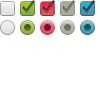
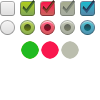
issue #14 y #31

Changed region(s): [[0.21, 0.39, 0.81, 0.6]]

diff --git a/web/css/backend/main.css b/web/css/backend/main.css
@@ -1,3 +1,5 @@
+/* This CSS is autocompiled by LESS parser. Don't edit it manually. */
+
 *:focus {
   outline: 0;
   outline: none;
@@ -406,18 +408,43 @@ table.items_control tbody tr td input[type="radio"].opt-nc:checked { background-
 table.items_control tbody tr td input[type="radio"].opt-error:checked { background-position: -40px -20px; }
 table.items_control tbody tr td input[type="radio"]:hover { cursor: default; }
 table.items_control tbody tr td.item_ok {
-  color: #008800;
   background-color: #eeffee;
+  color: #008800;
+  text-align: center;
+}
+table.items_control tbody tr td.item_ok span {
+  background: #eeffee url('../../images/form.png') no-repeat -20px -40px;
+  display: block;
+  width: 20px;
+  height: 20px;
+  margin: 0 auto;
 }
 table.items_control tbody tr td.item_error {
-  color: #880000;
   background-color: #ffeeee;
+  color: #880000;
+  text-align: center;
 }
-table.items_control tbody tr td.item_nc {
-  color: #444444;
+table.items_control tbody tr td.item_error span {
+  background: #ffeeee url('../../images/form.png') no-repeat -40px -40px;
+  display: block;
+  width: 20px;
+  height: 20px;
+  margin: 0 auto;
+}
+table.items_control tbody tr td.item_sc {
   background-color: #eeeeee;
+  color: #444444;
+  text-align: center;
+}
+table.items_control tbody tr td.item_sc span {
+  background: #eeeeee url('../../images/form.png') no-repeat -60px -40px;
+  display: block;
+  width: 20px;
+  height: 20px;
+  margin: 0 auto;
 }
 table.items_control tbody tr th {
+  white-space: nowrap;
   background-color: #dddddd;
   border-bottom: 1px solid #cccccc;
   border-left: 1px solid #cccccc;

diff --git a/data/stylesheets/backend/main.less b/data/stylesheets/backend/main.less
@@ -173,13 +173,44 @@ table.items_control {
             cursor: default;
           }
         }
+
       }
 
-      td.item_ok     { color: #080; background-color: #efe}
-      td.item_error  { color: #800; background-color: #fee}
-      td.item_nc     { color: #444; background-color: #eee}
-
+      td.item_ok     {
+        background-color: #efe;
+        color: #080;
+        text-align:center;
+        span {
+          background: #efe url('../../images/form.png') no-repeat -20px -40px;
+          display:block;
+          width:20px; height:20px;
+          margin: 0 auto;
+        }
+        }
+      td.item_error {
+        background-color: #fee;
+        color: #800;
+        text-align:center;
+        span { 
+          background: #fee url('../../images/form.png') no-repeat -40px -40px;
+          display:block;
+          width:20px; height:20px;
+          margin: 0 auto;
+        }
+      }
+      td.item_sc     {
+        background-color: #eee;
+        color: #444;
+        text-align:center;
+        span { 
+          background: #eee url('../../images/form.png') no-repeat -60px -40px;
+          display:block;
+          width:20px; height:20px;
+          margin: 0 auto;
+        }
+      }
       th {
+        white-space: nowrap;
         background-color: #ddd;
         border-bottom: 1px solid #ccc;
         border-left: 1px solid #ccc;

diff --git a/apps/backend/modules/revisions/templates/controlSuccess.php b/apps/backend/modules/revisions/templates/controlSuccess.php
@@ -22,7 +22,8 @@ use_stylesheet('backend/items.css');
             <th>M</th>
             <th><?php echo __('Ok') ?></th>
             <th><?php echo __('Er') ?></th>
-            <th><?php echo __('nc') ?></th>
+            <th><?php echo __('n/c') ?></th>
+            <th><?php echo __('s/c') ?></th>
           </tr>
         </thead>
 
@@ -31,7 +32,8 @@ use_stylesheet('backend/items.css');
             <th colspan="4">
               | <span class="ok"> ok: <?php echo ($revision->getItemsGroupOK($group[0]->getItem()->getGroupId()) ? $revision->getItemsGroupOK($group[0]->getItem()->getGroupId())->count : 0) ?></span>
               | <span class="error">error: <?php echo ($revision->getItemsGroupError($group[0]->getItem()->getGroupId()) ? $revision->getItemsGroupError($group[0]->getItem()->getGroupId())->count : 0) ?></span>
-              | <span class="nc">s/c: <?php echo ($revision->getItemsGroupSC($group[0]->getItem()->getGroupId()) ? $revision->getItemsGroupSC($group[0]->getItem()->getGroupId())->count : 0) ?></span>
+              | <span class="no-corresponde">no corresponde: <?php echo ($revision->getItemsGroupNC($group[0]->getItem()->getGroupId()) ? $revision->getItemsGroupNC($group[0]->getItem()->getGroupId())->count : 0) ?></span>
+              | <span class="sin-controlar">sin controlar: <?php echo ($revision->getItemsGroupSC($group[0]->getItem()->getGroupId()) ? $revision->getItemsGroupSC($group[0]->getItem()->getGroupId())->count : 0) ?></span>
               | total: <?php echo $group->count() ?> |</th>
           </tr>
         </tfoot>
@@ -50,10 +52,12 @@ use_stylesheet('backend/items.css');
             <td><input <?php if($revision->getBlock()) echo 'disabled' ?> <?php if($state == 'ok') echo 'checked' ?> class="opt-ok" type="radio" name="items[<?php echo $item->get('id') ?>]" value="ok" /></td>
             <td><input <?php if($revision->getBlock()) echo 'disabled' ?> <?php if($state == 'error') echo 'checked' ?> class="opt-error" type="radio" name="items[<?php echo $item->get('id') ?>]" value="error"/></td>
             <td><input <?php if($revision->getBlock()) echo 'disabled' ?> <?php if($state == 'nc') echo 'checked' ?> class="opt-nc" type="radio" name="items[<?php echo $item->get('id') ?>]" value="nc"/></td>
+            <td><input <?php if($revision->getBlock()) echo 'disabled' ?> <?php if($state == 'sc') echo 'checked' ?> class="opt-sc" type="radio" name="items[<?php echo $item->get('id') ?>]" value="sc"/></td>
                 <?php else: ?>
             <td><?php if($state == 'ok') echo '*' ?></td>
             <td><?php if($state == 'error') echo '*' ?></td>
             <td><?php if($state == 'nc') echo '*' ?></td>
+            <td><?php if($state == 'sc') echo '*' ?></td>
                 <?php endif; ?>
           </tr>
             <?php endforeach; ?>

diff --git a/lib/model/doctrine/Revision.class.php b/lib/model/doctrine/Revision.class.php
@@ -165,7 +165,7 @@ class Revision extends BaseRevision {
     return $request;
   }
 
-  public function getItemsGroupSC($group_id) {
+  public function getItemsGroupNC($group_id) {
     $q = Doctrine_Query::create()
             ->select('Count(ri.id) as count, *')
             ->from('RevisionItem ri')
@@ -180,37 +180,61 @@ class Revision extends BaseRevision {
     return $request;
   }
 
-  public function getGroupState($group_id) {
+  public function getItemsGroupSC($group_id) {
     $q = Doctrine_Query::create()
-            ->select('Count(ri.id) as count, ri.state')
+            ->select('Count(ri.id) as count, *')
             ->from('RevisionItem ri')
             ->leftJoin('ri.Item i')
             ->where('ri.revision_id = ?', $this->get('id'))
+            ->andWhere('ri.state = ?', 'sc')
             ->andWhere('i.group_id = ?', $group_id)
             ->groupBy('ri.state');
 
-    $request = $q->execute();
+    $request = $q->fetchOne();
 
-    $state_error = false;
-    $state_nc = false;
-    $state_ok = false;
+    return $request;
+  }
 
-    foreach ($request as $value) {
-      if ($value->state == 'error') {
-        $state_error = true;
+  public function getGroupState($group_id) {
+     $cierre = Doctrine::getTable('item')->findOneByGroupIdAndTitle($group_id, 'Cierre parcial');
+     
+     if ($cierre==''){
+     $item = $cierre->get('id');
+     $revision = Doctrine::getTable('RevisionItem')->findOneByItemIdAndRevisionId($item,  $this->get('id'));
+     return $revision->getState();
+     }
+     else {
+      $q = Doctrine_Query::create()
+              ->select('Count(ri.id) as count, ri.state')
+              ->from('RevisionItem ri')
+              ->leftJoin('ri.Item i')
+              ->where('ri.revision_id = ?', $this->get('id'))
+              ->andWhere('i.group_id = ?', $group_id)
+              ->groupBy('ri.state');
+
+      $request = $q->execute();
+
+      $state_error = false;
+      $state_nc = false;
+      $state_ok = false;
+      $state_sc = false;
+      foreach ($request as $value) {
+        if ($value->state == 'error') {
+          $state_error = true;
+        }
+        if ($value->state == 'sc') {
+          $state_sc = true;
+        }
+        if ($value->state == 'nc') {
+          $state_nc = true;
+        }
+        if ($value->state == 'ok') {
+          $state_ok = true;
+        }
       }
 
-      if ($value->state == 'nc') {
-        $state_nc = true;
-      }
-
-      if ($value->state == 'ok') {
-        $state_ok = true;
-      }
-    }
-
-
-    return ($state_error) ? 'error' : ($state_nc ? 'nc' : 'ok');
+      return ($state_error) ? 'error' : ($state_sc ? 'sc' : 'ok');
+     }
   }
 
   public function getParent(){

diff --git a/lib/filter/doctrine/base/BaseRevisionItemFormFilter.class.php b/lib/filter/doctrine/base/BaseRevisionItemFormFilter.class.php
@@ -16,14 +16,14 @@ abstract class BaseRevisionItemFormFilter extends BaseFormFilterDoctrine
       'item_id'     => new sfWidgetFormDoctrineChoice(array('model' => $this->getRelatedModelName('Item'), 'add_empty' => true)),
       'revision_id' => new sfWidgetFormDoctrineChoice(array('model' => $this->getRelatedModelName('Revision'), 'add_empty' => true)),
       'user_id'     => new sfWidgetFormDoctrineChoice(array('model' => $this->getRelatedModelName('UserController'), 'add_empty' => true)),
-      'state'       => new sfWidgetFormChoice(array('choices' => array('' => '', 'ok' => 'ok', 'error' => 'error', 'nc' => 'nc'))),
+      'state'       => new sfWidgetFormChoice(array('choices' => array('' => '', 'ok' => 'ok', 'error' => 'error', 'nc' => 'nc', 'sc' => 'sc'))),
     ));
 
     $this->setValidators(array(
       'item_id'     => new sfValidatorDoctrineChoice(array('required' => false, 'model' => $this->getRelatedModelName('Item'), 'column' => 'id')),
       'revision_id' => new sfValidatorDoctrineChoice(array('required' => false, 'model' => $this->getRelatedModelName('Revision'), 'column' => 'id')),
       'user_id'     => new sfValidatorDoctrineChoice(array('required' => false, 'model' => $this->getRelatedModelName('UserController'), 'column' => 'id')),
-      'state'       => new sfValidatorChoice(array('required' => false, 'choices' => array('ok' => 'ok', 'error' => 'error', 'nc' => 'nc'))),
+      'state'       => new sfValidatorChoice(array('required' => false, 'choices' => array('ok' => 'ok', 'error' => 'error', 'nc' => 'nc', 'sc' => 'sc'))),
     ));
 
     $this->widgetSchema->setNameFormat('revision_item_filters[%s]');

diff --git a/lib/form/doctrine/base/BaseRevisionItemForm.class.php b/lib/form/doctrine/base/BaseRevisionItemForm.class.php
@@ -19,7 +19,7 @@ abstract class BaseRevisionItemForm extends BaseFormDoctrine
       'item_id'     => new sfWidgetFormDoctrineChoice(array('model' => $this->getRelatedModelName('Item'), 'add_empty' => true)),
       'revision_id' => new sfWidgetFormDoctrineChoice(array('model' => $this->getRelatedModelName('Revision'), 'add_empty' => true)),
       'user_id'     => new sfWidgetFormDoctrineChoice(array('model' => $this->getRelatedModelName('UserController'), 'add_empty' => true)),
-      'state'       => new sfWidgetFormChoice(array('choices' => array('ok' => 'ok', 'error' => 'error', 'nc' => 'nc'))),
+      'state'       => new sfWidgetFormChoice(array('choices' => array('ok' => 'ok', 'error' => 'error', 'nc' => 'nc', 'sc' => 'sc'))),
     ));
 
     $this->setValidators(array(
@@ -27,7 +27,7 @@ abstract class BaseRevisionItemForm extends BaseFormDoctrine
       'item_id'     => new sfValidatorDoctrineChoice(array('model' => $this->getRelatedModelName('Item'), 'required' => false)),
       'revision_id' => new sfValidatorDoctrineChoice(array('model' => $this->getRelatedModelName('Revision'), 'required' => false)),
       'user_id'     => new sfValidatorDoctrineChoice(array('model' => $this->getRelatedModelName('UserController'), 'required' => false)),
-      'state'       => new sfValidatorChoice(array('choices' => array(0 => 'ok', 1 => 'error', 2 => 'nc'), 'required' => false)),
+      'state'       => new sfValidatorChoice(array('choices' => array(0 => 'ok', 1 => 'error', 2 => 'nc', 3 => 'sc'), 'required' => false)),
     ));
 
     $this->validatorSchema->setPostValidator(

diff --git a/apps/backend/modules/procedures/templates/_items.php b/apps/backend/modules/procedures/templates/_items.php
@@ -14,7 +14,8 @@
     <tr>
         <?php foreach ($revision->getGroups() as $itemGroup) : ?>
       <td class="item_ok"><?php echo ($revision->getItemsGroupOK($itemGroup->get('group_id')) ? $revision->getItemsGroupOK($itemGroup->get('group_id'))->count : 0 )?></td>
-      <td class="item_error"><?php echo ($revision->getItemsGroupError($itemGroup->get('group_id')) ? $revision->getItemsGroupError($itemGroup->get('group_id'))->count : 0 )?></td>
+      <td class="item_error"><?php echo ($revision->getItemsGroupError($itemGroup->get('group_id')) ?
+     * $revision->getItemsGroupError($itemGroup->get('group_id'))->count : 0 )?></td>
       <td class="item_nc"><?php echo ($revision->getItemsGroupSC($itemGroup->get('group_id')) ? $revision->getItemsGroupSC($itemGroup->get('group_id'))->count : 0 )?></td>
         <?php endforeach; ?>
     </tr>
@@ -24,8 +25,10 @@
 
     <tr>
       <?php foreach ($revision->getGroups() as $itemGroup) : ?>
-      <td class="item_<?php echo $revision->getGroupState($itemGroup->get('group_id')) ?>">
-        <input type="radio" checked class="opt-<?php echo $revision->getGroupState($itemGroup->get('group_id')) ?>" />
+      <td class="item_<?php echo $revision->getGroupState($itemGroup->get('group_id')) ?>  "><span></span>
+        <!-- input type="radio" checked class="opt-<?php //echo $revision->getGroupState($itemGroup->get('group_id')) ?>" /-->
+
+
       </td>
       <?php endforeach; ?>
     </tr>

diff --git a/lib/model/doctrine/base/BaseRevisionItem.class.php b/lib/model/doctrine/base/BaseRevisionItem.class.php
@@ -66,8 +66,9 @@ abstract class BaseRevisionItem extends sfDoctrineRecord
               0 => 'ok',
               1 => 'error',
               2 => 'nc',
+              3 => 'sc',
              ),
-             'default' => 'nc',
+             'default' => 'sc',
              ));
 
 
